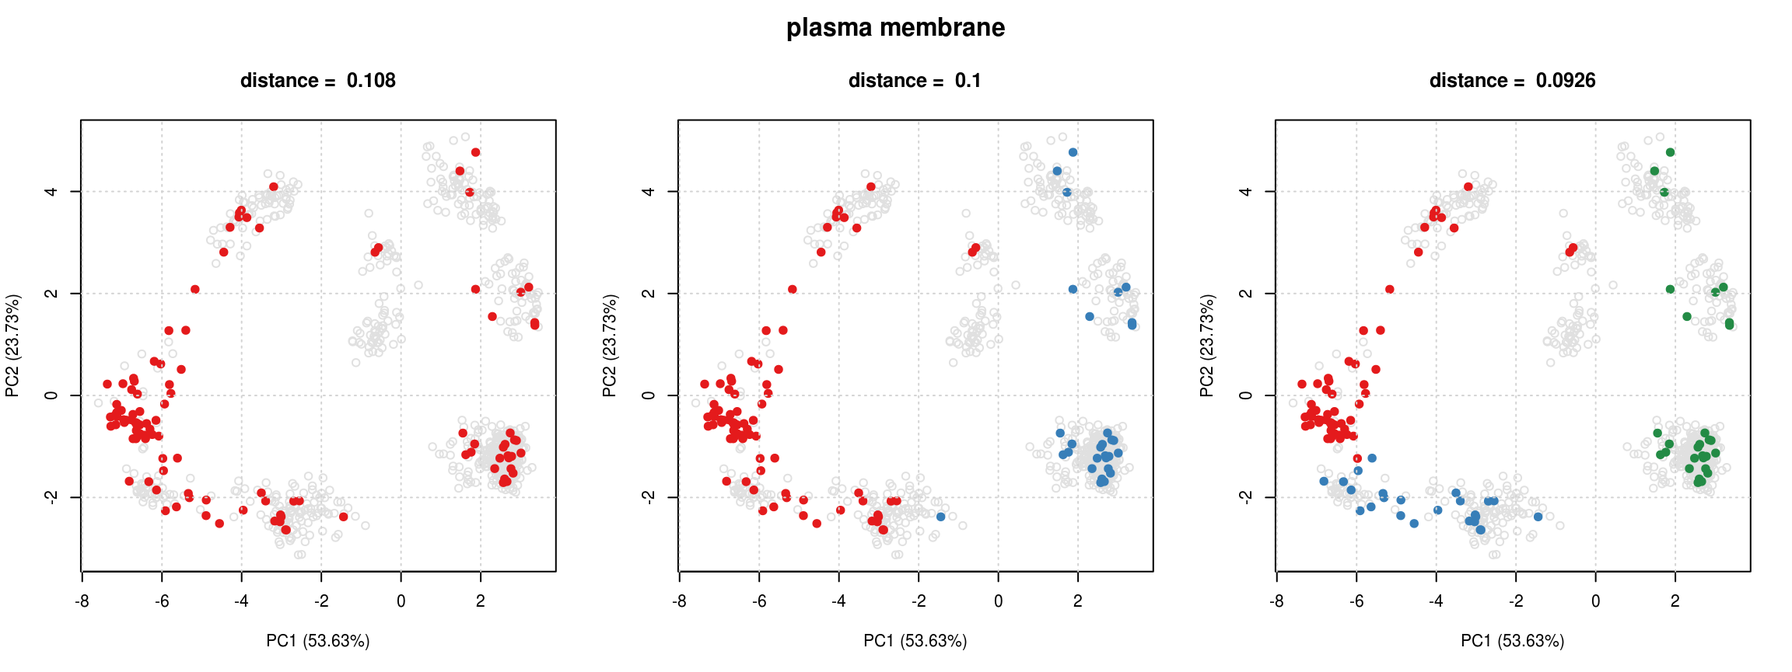
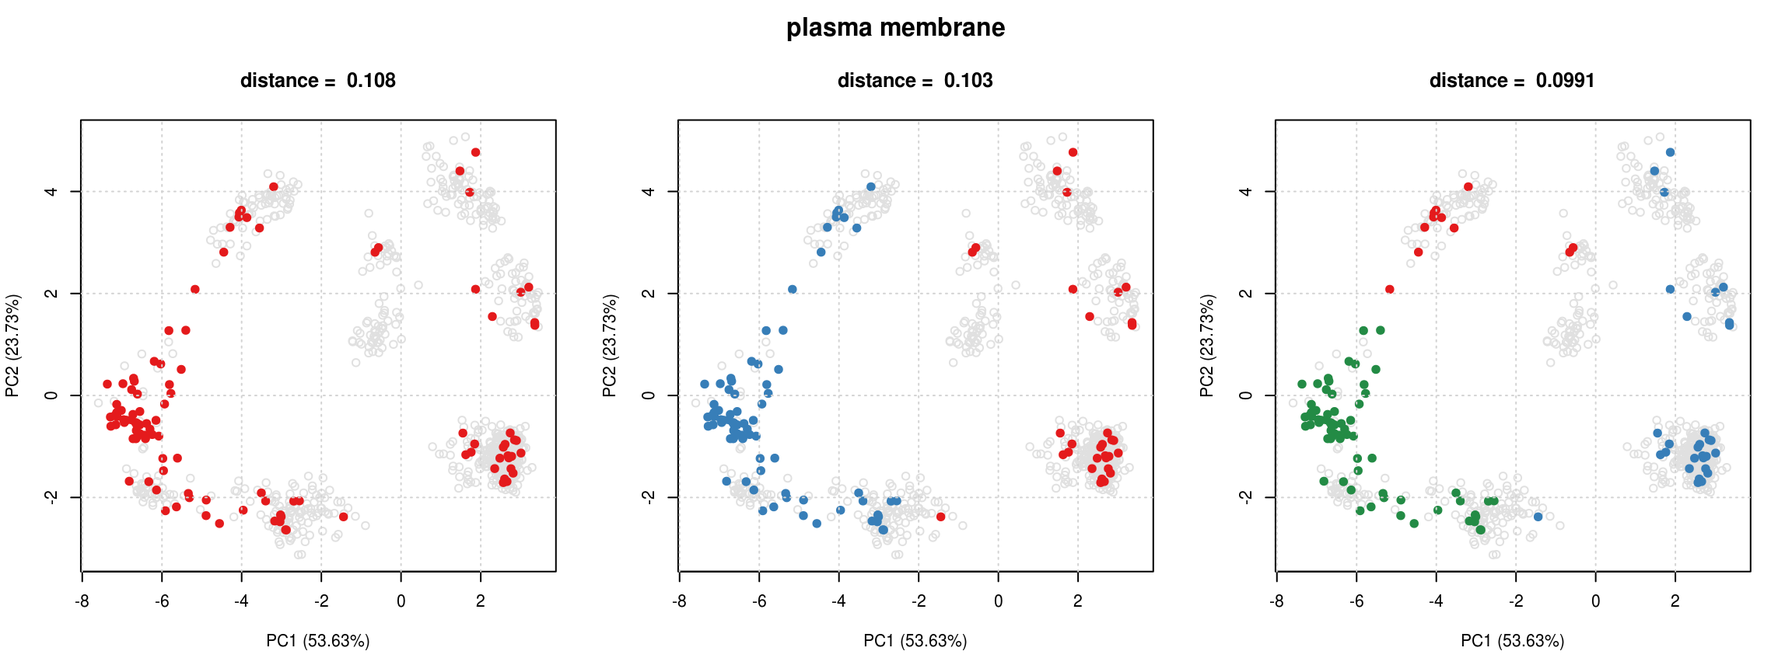
Deploy lgatto/pRoloc to github.com/lgatto/pRoloc.git:gh-pages

diff --git a/reference/plsdaClassification.html b/reference/plsdaClassification.html
@@ -194,8 +194,8 @@ from package <code>caret</code>.</p></td>
 #&gt; 
 #&gt; function (x, ...) 
 #&gt; standardGeneric("params")
-#&gt; &lt;bytecode: 0x80e6d30&gt;
-#&gt; &lt;environment: 0x80e0a90&gt;
+#&gt; &lt;bytecode: 0x7a04790&gt;
+#&gt; &lt;environment: 0x79fe100&gt;
 #&gt; Methods may be defined for arguments: x
 #&gt; Use  showMethods("params")  for currently available ones.</div><div class='input'><span class='fu'><a href='https://www.rdocumentation.org/packages/graphics/topics/plot'>plot</a></span>(<span class='no'>params</span>)</div><div class='output co'>#&gt; <span class='error'>Error in (function (classes, fdef, mtable) {    methods &lt;- .findInheritedMethods(classes, fdef, mtable)    if (length(methods) == 1L)         return(methods[[1L]])    else if (length(methods) == 0L) {        cnames &lt;- paste0("\"", vapply(classes, as.character,             ""), "\"", collapse = ", ")        stop(gettextf("unable to find an inherited method for function %s for signature %s",             sQuote(fdef@generic), sQuote(cnames)), domain = NA)    }    else stop("Internal error in finding inherited methods; didn't return a unique method",         domain = NA)})(list("numeric"), new("standardGeneric", .Data = function (x,     ...) standardGeneric("params"), generic = structure("params", package = "S4Vectors"),     package = "S4Vectors", group = list(), valueClass = character(0),     signature = "x", default = NULL, skeleton = (function (x,         ...)     stop("invalid call in method dispatch to 'params' (no default method)",         domain = NA))(x, ...)), &lt;environment&gt;): unable to find an inherited method for function ‘params’ for signature ‘"numeric"’</span></div><div class='input'><span class='fu'><a href='GenRegRes-class.html'>f1Count</a></span>(<span class='no'>params</span>)</div><div class='output co'>#&gt; <span class='error'>Error in (function (classes, fdef, mtable) {    methods &lt;- .findInheritedMethods(classes, fdef, mtable)    if (length(methods) == 1L)         return(methods[[1L]])    else if (length(methods) == 0L) {        cnames &lt;- paste0("\"", vapply(classes, as.character,             ""), "\"", collapse = ", ")        stop(gettextf("unable to find an inherited method for function %s for signature %s",             sQuote(fdef@generic), sQuote(cnames)), domain = NA)    }    else stop("Internal error in finding inherited methods; didn't return a unique method",         domain = NA)})(list(structure("standardGeneric", package = "methods")), new("standardGeneric",     .Data = function (object, ...)     standardGeneric("f1Count"), generic = structure("f1Count", package = "pRoloc"),     package = "pRoloc", group = list(), valueClass = character(0),     signature = "object", default = NULL, skeleton = (function (object,         ...)     stop("invalid call in method dispatch to 'f1Count' (no default method)",         domain = NA))(object, ...)), &lt;environment&gt;): unable to find an inherited method for function ‘f1Count’ for signature ‘"standardGeneric"’</span></div><div class='input'><span class='fu'><a href='GenRegRes-class.html'>levelPlot</a></span>(<span class='no'>params</span>)</div><div class='output co'>#&gt; <span class='error'>Error in (function (classes, fdef, mtable) {    methods &lt;- .findInheritedMethods(classes, fdef, mtable)    if (length(methods) == 1L)         return(methods[[1L]])    else if (length(methods) == 0L) {        cnames &lt;- paste0("\"", vapply(classes, as.character,             ""), "\"", collapse = ", ")        stop(gettextf("unable to find an inherited method for function %s for signature %s",             sQuote(fdef@generic), sQuote(cnames)), domain = NA)    }    else stop("Internal error in finding inherited methods; didn't return a unique method",         domain = NA)})(list(structure("standardGeneric", package = "methods")), new("standardGeneric",     .Data = function (object, ...)     standardGeneric("levelPlot"), generic = structure("levelPlot", package = "pRoloc"),     package = "pRoloc", group = list(), valueClass = character(0),     signature = "object", default = NULL, skeleton = (function (object,         ...)     stop("invalid call in method dispatch to 'levelPlot' (no default method)",         domain = NA))(object, ...)), &lt;environment&gt;): unable to find an inherited method for function ‘levelPlot’ for signature ‘"standardGeneric"’</span></div><div class='input'><span class='fu'><a href='GenRegRes-class.html'>getParams</a></span>(<span class='no'>params</span>)</div><div class='output co'>#&gt; <span class='error'>Error in (function (classes, fdef, mtable) {    methods &lt;- .findInheritedMethods(classes, fdef, mtable)    if (length(methods) == 1L)         return(methods[[1L]])    else if (length(methods) == 0L) {        cnames &lt;- paste0("\"", vapply(classes, as.character,             ""), "\"", collapse = ", ")        stop(gettextf("unable to find an inherited method for function %s for signature %s",             sQuote(fdef@generic), sQuote(cnames)), domain = NA)    }    else stop("Internal error in finding inherited methods; didn't return a unique method",         domain = NA)})(list(structure("standardGeneric", package = "methods")), new("standardGeneric",     .Data = function (object, ...)     standardGeneric("getParams"), generic = structure("getParams", package = "pRoloc"),     package = "pRoloc", group = list(), valueClass = character(0),     signature = "object", default = NULL, skeleton = (function (object,         ...)     stop("invalid call in method dispatch to 'getParams' (no default method)",         domain = NA))(object, ...)), &lt;environment&gt;): unable to find an inherited method for function ‘getParams’ for signature ‘"standardGeneric"’</span></div><div class='input'><span class='no'>res</span> <span class='kw'>&lt;-</span> <span class='fu'>plsdaClassification</span>(<span class='no'>dunkley2006</span>, <span class='no'>params</span>)</div><div class='output co'>#&gt; <span class='error'>Error in (function (classes, fdef, mtable) {    methods &lt;- .findInheritedMethods(classes, fdef, mtable)    if (length(methods) == 1L)         return(methods[[1L]])    else if (length(methods) == 0L) {        cnames &lt;- paste0("\"", vapply(classes, as.character,             ""), "\"", collapse = ", ")        stop(gettextf("unable to find an inherited method for function %s for signature %s",             sQuote(fdef@generic), sQuote(cnames)), domain = NA)    }    else stop("Internal error in finding inherited methods; didn't return a unique method",         domain = NA)})(list(structure("standardGeneric", package = "methods")), new("standardGeneric",     .Data = function (object, ...)     standardGeneric("getParams"), generic = structure("getParams", package = "pRoloc"),     package = "pRoloc", group = list(), valueClass = character(0),     signature = "object", default = NULL, skeleton = (function (object,         ...)     stop("invalid call in method dispatch to 'getParams' (no default method)",         domain = NA))(object, ...)), &lt;environment&gt;): unable to find an inherited method for function ‘getParams’ for signature ‘"standardGeneric"’</span></div><div class='input'><span class='fu'><a href='getPredictions.html'>getPredictions</a></span>(<span class='no'>res</span>, <span class='kw'>fcol</span> <span class='kw'>=</span> <span class='st'>"plsda"</span>)</div><div class='output co'>#&gt; <span class='error'>Error in fData(object): object 'res' not found</span></div><div class='input'><span class='fu'><a href='getPredictions.html'>getPredictions</a></span>(<span class='no'>res</span>, <span class='kw'>fcol</span> <span class='kw'>=</span> <span class='st'>"plsda"</span>, <span class='kw'>t</span> <span class='kw'>=</span> <span class='fl'>0.9</span>)</div><div class='output co'>#&gt; <span class='error'>Error in fData(object): object 'res' not found</span></div><div class='input'><span class='fu'><a href='plot2D.html'>plot2D</a></span>(<span class='no'>res</span>, <span class='kw'>fcol</span> <span class='kw'>=</span> <span class='st'>"plsda"</span>)</div><div class='output co'>#&gt; <span class='error'>Error in plot2D(res, fcol = "plsda"): object 'res' not found</span></div></pre>
   </div>

diff --git a/articles/v01-pRoloc-tutorial.html b/articles/v01-pRoloc-tutorial.html
@@ -306,7 +306,7 @@ document.addEventListener("DOMContentLoaded", function() {
 ## experimentData: use 'experimentData(object)'
 ## Annotation:  
 ## - - - Processing information - - -
-## Quantitation data loaded: Fri Feb 22 14:15:17 2019  using readMSnSet. 
+## Quantitation data loaded: Fri Feb 22 14:30:55 2019  using readMSnSet. 
 ##  MSnbase version: 2.9.2</code></pre>
 </div>
 </div>
@@ -466,8 +466,8 @@ document.addEventListener("DOMContentLoaded", function() {
 <pre><code>## - - - Processing information - - -
 ## Data loaded: Wed May 11 18:54:39 2011 
 ## Updated from version 0.3.0 to 0.3.1 [Fri Jul  8 20:23:25 2016] 
-## iTRAQ4 quantification by trapezoidation: Fri Feb 22 14:15:19 2019 
-## Normalised (sum): Fri Feb 22 14:15:19 2019 
+## iTRAQ4 quantification by trapezoidation: Fri Feb 22 14:30:57 2019 
+## Normalised (sum): Fri Feb 22 14:30:57 2019 
 ##  MSnbase version: 1.1.22</code></pre>
 <div class="sourceCode" id="cb46"><pre class="sourceCode r"><code class="sourceCode r"><a class="sourceLine" id="cb46-1" data-line-number="1"><span class="kw"><a href="https://www.rdocumentation.org/packages/utils/topics/head">head</a></span>(<span class="kw">exprs</span>(itraqnorm), <span class="dt">n =</span> <span class="dv">3</span>)</a></code></pre></div>
 <pre><code>##     iTRAQ4.114 iTRAQ4.115 iTRAQ4.116 iTRAQ4.117
@@ -771,7 +771,7 @@ Assessing parameter optimisation. On the left, we see the respective distributio
 <a class="sourceLine" id="cb87-4" data-line-number="4"><span class="kw"><a href="https://www.rdocumentation.org/packages/MSnbase/topics/pSet-class">processingData</a></span>(svmres)</a></code></pre></div>
 <pre><code>## - - - Processing information - - -
 ## Added markers from  'mrk' marker vector. Thu Jul 16 22:53:44 2015 
-## Performed svm prediction (sigma=0.1 cost=0.5) Fri Feb 22 14:15:26 2019 
+## Performed svm prediction (sigma=0.1 cost=0.5) Fri Feb 22 14:31:04 2019 
 ##  MSnbase version: 1.17.12</code></pre>
 <div class="sourceCode" id="cb89"><pre class="sourceCode r"><code class="sourceCode r"><a class="sourceLine" id="cb89-1" data-line-number="1"><span class="kw"><a href="https://www.rdocumentation.org/packages/utils/topics/head">tail</a></span>(<span class="kw">fvarLabels</span>(svmres), <span class="dv">4</span>)</a></code></pre></div>
 <pre><code>## [1] "markers"    "markers.tl" "svm"        "svm.scores"</code></pre>
@@ -873,8 +873,8 @@ Organelle-specific SVM score distributions.
 ## Annotation:  
 ## - - - Processing information - - -
 ## Added markers from  'mrk' marker vector. Thu Jul 16 22:53:44 2015 
-## Performed svm prediction (sigma=0.1 cost=0.5) Fri Feb 22 14:15:26 2019 
-## Added svm predictions according to thresholds: ER = 0.84, Golgi = 0.63, mitochondrion = 0.75, PM = 0.76 Fri Feb 22 14:15:27 2019 
+## Performed svm prediction (sigma=0.1 cost=0.5) Fri Feb 22 14:31:04 2019 
+## Added svm predictions according to thresholds: ER = 0.84, Golgi = 0.63, mitochondrion = 0.75, PM = 0.76 Fri Feb 22 14:31:04 2019 
 ##  MSnbase version: 1.17.12</code></pre>
 <p>We can now visualise these results using the plotting functions presented in section @ref(sec:usml), as shown on figure @ref(fig:svmres). We clearly see that besides the organelle marker clusters that have been assigned high confidence members, many other proteins have substantially lower prediction scores.</p>
 <div class="sourceCode" id="cb103"><pre class="sourceCode r"><code class="sourceCode r"><a class="sourceLine" id="cb103-1" data-line-number="1">ptsze &lt;-<span class="st"> </span><span class="kw"><a href="https://www.rdocumentation.org/packages/base/topics/Log">exp</a></span>(<span class="kw">fData</span>(svmres)<span class="op">$</span>svm.scores) <span class="op">-</span><span class="st"> </span><span class="dv">1</span></a>

diff --git a/reference/getPredictions.html b/reference/getPredictions.html
@@ -225,8 +225,8 @@ thresholds.</p></div>
 #&gt; Loaded on Thu Jul 16 22:53:08 2015. 
 #&gt; Normalised to sum of intensities. 
 #&gt; Added markers from  'mrk' marker vector. Thu Jul 16 22:53:08 2015 
-#&gt; Performed svm prediction (cost=0.5 sigma=0.1) Fri Feb 22 14:13:46 2019 
-#&gt; Added svm predictions according to global threshold = 0 Fri Feb 22 14:13:46 2019 
+#&gt; Performed svm prediction (cost=0.5 sigma=0.1) Fri Feb 22 14:29:30 2019 
+#&gt; Added svm predictions according to global threshold = 0 Fri Feb 22 14:29:30 2019 
 #&gt;  MSnbase version: 1.17.12 </div><div class='input'><span class='fu'>getPredictions</span>(<span class='no'>res</span>, <span class='kw'>fcol</span> <span class='kw'>=</span> <span class='st'>"svm"</span>, <span class='kw'>t</span> <span class='kw'>=</span> <span class='fl'>.9</span>) <span class='co'>## single threshold </span></div><div class='output co'>#&gt; ans
 #&gt;      ER lumen   ER membrane         Golgi Mitochondrion       Plastid 
 #&gt;            14            56            28            55            20 
@@ -250,8 +250,8 @@ thresholds.</p></div>
 #&gt; Loaded on Thu Jul 16 22:53:08 2015. 
 #&gt; Normalised to sum of intensities. 
 #&gt; Added markers from  'mrk' marker vector. Thu Jul 16 22:53:08 2015 
-#&gt; Performed svm prediction (cost=0.5 sigma=0.1) Fri Feb 22 14:13:46 2019 
-#&gt; Added svm predictions according to global threshold = 0.9 Fri Feb 22 14:13:46 2019 
+#&gt; Performed svm prediction (cost=0.5 sigma=0.1) Fri Feb 22 14:29:30 2019 
+#&gt; Added svm predictions according to global threshold = 0.9 Fri Feb 22 14:29:30 2019 
 #&gt;  MSnbase version: 1.17.12 </div><div class='input'><span class='co'>## 50% top predictions per class</span>
 <span class='no'>ts</span> <span class='kw'>&lt;-</span> <span class='fu'><a href='orgQuants.html'>orgQuants</a></span>(<span class='no'>res</span>, <span class='kw'>fcol</span> <span class='kw'>=</span> <span class='st'>"svm"</span>, <span class='kw'>t</span> <span class='kw'>=</span> <span class='fl'>.5</span>)</div><div class='output co'>#&gt;      ER lumen   ER membrane         Golgi Mitochondrion       Plastid 
 #&gt;     0.2995766     0.8368847     0.7805362     0.7484314     0.7746137 
@@ -279,8 +279,8 @@ thresholds.</p></div>
 #&gt; Loaded on Thu Jul 16 22:53:08 2015. 
 #&gt; Normalised to sum of intensities. 
 #&gt; Added markers from  'mrk' marker vector. Thu Jul 16 22:53:08 2015 
-#&gt; Performed svm prediction (cost=0.5 sigma=0.1) Fri Feb 22 14:13:46 2019 
-#&gt; Added svm predictions according to thresholds: ER lumen = 0.30, ER membrane = 0.84, Golgi = 0.78, Mitochondrion = 0.75, Plastid = 0.77, PM = 0.73, Ribosome = 0.54, TGN = 0.53, vacuole = 0.57 Fri Feb 22 14:13:46 2019 
+#&gt; Performed svm prediction (cost=0.5 sigma=0.1) Fri Feb 22 14:29:30 2019 
+#&gt; Added svm predictions according to thresholds: ER lumen = 0.30, ER membrane = 0.84, Golgi = 0.78, Mitochondrion = 0.75, Plastid = 0.77, PM = 0.73, Ribosome = 0.54, TGN = 0.53, vacuole = 0.57 Fri Feb 22 14:29:30 2019 
 #&gt;  MSnbase version: 1.17.12 </div></pre>
   </div>
   <div class="col-md-3 hidden-xs hidden-sm" id="sidebar">

diff --git a/reference/perTurboClassification.html b/reference/perTurboClassification.html
@@ -258,8 +258,8 @@ Default is <code>markers</code>.</p></td>
 #&gt; Loaded on Thu Jul 16 22:53:08 2015. 
 #&gt; Normalised to sum of intensities. 
 #&gt; Added markers from  'mrk' marker vector. Thu Jul 16 22:53:08 2015 
-#&gt; Performed perTurbo prediction (sigma=0.1 pRegul=4) Fri Feb 22 14:14:37 2019 
-#&gt; Added perTurbo predictions according to global threshold = 0 Fri Feb 22 14:14:37 2019 
+#&gt; Performed perTurbo prediction (sigma=0.1 pRegul=4) Fri Feb 22 14:30:18 2019 
+#&gt; Added perTurbo predictions according to global threshold = 0 Fri Feb 22 14:30:18 2019 
 #&gt;  MSnbase version: 1.17.12 </div><div class='input'><span class='fu'><a href='getPredictions.html'>getPredictions</a></span>(<span class='no'>res</span>, <span class='kw'>fcol</span> <span class='kw'>=</span> <span class='st'>"perTurbo"</span>, <span class='kw'>t</span> <span class='kw'>=</span> <span class='fl'>0.75</span>)</div><div class='output co'>#&gt; ans
 #&gt;      ER lumen   ER membrane         Golgi Mitochondrion       Plastid 
 #&gt;            14            45            28            55            20 
@@ -283,8 +283,8 @@ Default is <code>markers</code>.</p></td>
 #&gt; Loaded on Thu Jul 16 22:53:08 2015. 
 #&gt; Normalised to sum of intensities. 
 #&gt; Added markers from  'mrk' marker vector. Thu Jul 16 22:53:08 2015 
-#&gt; Performed perTurbo prediction (sigma=0.1 pRegul=4) Fri Feb 22 14:14:37 2019 
-#&gt; Added perTurbo predictions according to global threshold = 0.75 Fri Feb 22 14:14:37 2019 
+#&gt; Performed perTurbo prediction (sigma=0.1 pRegul=4) Fri Feb 22 14:30:18 2019 
+#&gt; Added perTurbo predictions according to global threshold = 0.75 Fri Feb 22 14:30:18 2019 
 #&gt;  MSnbase version: 1.17.12 </div><div class='input'><span class='fu'><a href='plot2D.html'>plot2D</a></span>(<span class='no'>res</span>, <span class='kw'>fcol</span> <span class='kw'>=</span> <span class='st'>"perTurbo"</span>)</div><div class='img'><img src='perTurboClassification-3.png' alt='' width='700' height='433' /></div></pre>
   </div>
   <div class="col-md-3 hidden-xs hidden-sm" id="sidebar">

diff --git a/reference/nbClassification.html b/reference/nbClassification.html
@@ -225,8 +225,8 @@ Default is <code>markers</code>.</p></td>
 #&gt; Loaded on Thu Jul 16 22:53:08 2015. 
 #&gt; Normalised to sum of intensities. 
 #&gt; Added markers from  'mrk' marker vector. Thu Jul 16 22:53:08 2015 
-#&gt; Performed naiveBayes prediction (laplace=5) Fri Feb 22 14:14:17 2019 
-#&gt; Added naiveBayes predictions according to global threshold = 0 Fri Feb 22 14:14:17 2019 
+#&gt; Performed naiveBayes prediction (laplace=5) Fri Feb 22 14:29:59 2019 
+#&gt; Added naiveBayes predictions according to global threshold = 0 Fri Feb 22 14:29:59 2019 
 #&gt;  MSnbase version: 1.17.12 </div><div class='input'><span class='fu'><a href='getPredictions.html'>getPredictions</a></span>(<span class='no'>res</span>, <span class='kw'>fcol</span> <span class='kw'>=</span> <span class='st'>"naiveBayes"</span>, <span class='kw'>t</span> <span class='kw'>=</span> <span class='fl'>1</span>)</div><div class='output co'>#&gt; ans
 #&gt;      ER lumen   ER membrane         Golgi Mitochondrion       Plastid 
 #&gt;            14            45            69            61            43 
@@ -250,8 +250,8 @@ Default is <code>markers</code>.</p></td>
 #&gt; Loaded on Thu Jul 16 22:53:08 2015. 
 #&gt; Normalised to sum of intensities. 
 #&gt; Added markers from  'mrk' marker vector. Thu Jul 16 22:53:08 2015 
-#&gt; Performed naiveBayes prediction (laplace=5) Fri Feb 22 14:14:17 2019 
-#&gt; Added naiveBayes predictions according to global threshold = 1 Fri Feb 22 14:14:17 2019 
+#&gt; Performed naiveBayes prediction (laplace=5) Fri Feb 22 14:29:59 2019 
+#&gt; Added naiveBayes predictions according to global threshold = 1 Fri Feb 22 14:29:59 2019 
 #&gt;  MSnbase version: 1.17.12 </div><div class='input'><span class='fu'><a href='plot2D.html'>plot2D</a></span>(<span class='no'>res</span>, <span class='kw'>fcol</span> <span class='kw'>=</span> <span class='st'>"naiveBayes"</span>)</div><div class='img'><img src='nbClassification-3.png' alt='' width='700' height='433' /></div></pre>
   </div>
   <div class="col-md-3 hidden-xs hidden-sm" id="sidebar">

diff --git a/reference/nnetClassification.html b/reference/nnetClassification.html
@@ -246,8 +246,8 @@ package <code>nnet</code>.</p></td>
 #&gt; Loaded on Thu Jul 16 22:53:08 2015. 
 #&gt; Normalised to sum of intensities. 
 #&gt; Added markers from  'mrk' marker vector. Thu Jul 16 22:53:08 2015 
-#&gt; Performed nnet prediction (decay=1e-05 size=10) Fri Feb 22 14:14:24 2019 
-#&gt; Added nnet predictions according to global threshold = 0 Fri Feb 22 14:14:24 2019 
+#&gt; Performed nnet prediction (decay=1e-05 size=10) Fri Feb 22 14:30:06 2019 
+#&gt; Added nnet predictions according to global threshold = 0 Fri Feb 22 14:30:06 2019 
 #&gt;  MSnbase version: 1.17.12 </div><div class='input'><span class='fu'><a href='getPredictions.html'>getPredictions</a></span>(<span class='no'>res</span>, <span class='kw'>fcol</span> <span class='kw'>=</span> <span class='st'>"nnet"</span>, <span class='kw'>t</span> <span class='kw'>=</span> <span class='fl'>0.75</span>)</div><div class='output co'>#&gt; ans
 #&gt;      ER lumen   ER membrane         Golgi Mitochondrion       Plastid 
 #&gt;            27           168            94           107            50 
@@ -271,8 +271,8 @@ package <code>nnet</code>.</p></td>
 #&gt; Loaded on Thu Jul 16 22:53:08 2015. 
 #&gt; Normalised to sum of intensities. 
 #&gt; Added markers from  'mrk' marker vector. Thu Jul 16 22:53:08 2015 
-#&gt; Performed nnet prediction (decay=1e-05 size=10) Fri Feb 22 14:14:24 2019 
-#&gt; Added nnet predictions according to global threshold = 0.75 Fri Feb 22 14:14:24 2019 
+#&gt; Performed nnet prediction (decay=1e-05 size=10) Fri Feb 22 14:30:06 2019 
+#&gt; Added nnet predictions according to global threshold = 0.75 Fri Feb 22 14:30:06 2019 
 #&gt;  MSnbase version: 1.17.12 </div><div class='input'><span class='fu'><a href='plot2D.html'>plot2D</a></span>(<span class='no'>res</span>, <span class='kw'>fcol</span> <span class='kw'>=</span> <span class='st'>"nnet"</span>)</div><div class='img'><img src='nnetClassification-3.png' alt='' width='700' height='433' /></div></pre>
   </div>
   <div class="col-md-3 hidden-xs hidden-sm" id="sidebar">

diff --git a/reference/rfClassification.html b/reference/rfClassification.html
@@ -225,8 +225,8 @@ Default is <code>markers</code>.</p></td>
 #&gt; Loaded on Thu Jul 16 22:53:08 2015. 
 #&gt; Normalised to sum of intensities. 
 #&gt; Added markers from  'mrk' marker vector. Thu Jul 16 22:53:08 2015 
-#&gt; Performed random forest prediction (mtry=5) Fri Feb 22 14:14:54 2019 
-#&gt; Added rf predictions according to global threshold = 0 Fri Feb 22 14:14:54 2019 
+#&gt; Performed random forest prediction (mtry=5) Fri Feb 22 14:30:34 2019 
+#&gt; Added rf predictions according to global threshold = 0 Fri Feb 22 14:30:34 2019 
 #&gt;  MSnbase version: 1.17.12 </div><div class='input'><span class='fu'><a href='getPredictions.html'>getPredictions</a></span>(<span class='no'>res</span>, <span class='kw'>fcol</span> <span class='kw'>=</span> <span class='st'>"rf"</span>, <span class='kw'>t</span> <span class='kw'>=</span> <span class='fl'>0.75</span>)</div><div class='output co'>#&gt; ans
 #&gt;      ER lumen   ER membrane         Golgi Mitochondrion       Plastid 
 #&gt;            14           150            78            92            47 
@@ -250,8 +250,8 @@ Default is <code>markers</code>.</p></td>
 #&gt; Loaded on Thu Jul 16 22:53:08 2015. 
 #&gt; Normalised to sum of intensities. 
 #&gt; Added markers from  'mrk' marker vector. Thu Jul 16 22:53:08 2015 
-#&gt; Performed random forest prediction (mtry=5) Fri Feb 22 14:14:54 2019 
-#&gt; Added rf predictions according to global threshold = 0.75 Fri Feb 22 14:14:54 2019 
+#&gt; Performed random forest prediction (mtry=5) Fri Feb 22 14:30:34 2019 
+#&gt; Added rf predictions according to global threshold = 0.75 Fri Feb 22 14:30:34 2019 
 #&gt;  MSnbase version: 1.17.12 </div><div class='input'><span class='fu'><a href='plot2D.html'>plot2D</a></span>(<span class='no'>res</span>, <span class='kw'>fcol</span> <span class='kw'>=</span> <span class='st'>"rf"</span>)</div><div class='img'><img src='rfClassification-3.png' alt='' width='700' height='433' /></div></pre>
   </div>
   <div class="col-md-3 hidden-xs hidden-sm" id="sidebar">

diff --git a/reference/svmClassification.html b/reference/svmClassification.html
@@ -231,8 +231,8 @@ package <code>e1071</code>.</p></td>
 #&gt; Loaded on Thu Jul 16 22:53:08 2015. 
 #&gt; Normalised to sum of intensities. 
 #&gt; Added markers from  'mrk' marker vector. Thu Jul 16 22:53:08 2015 
-#&gt; Performed svm prediction (sigma=0.1 cost=1) Fri Feb 22 14:15:01 2019 
-#&gt; Added svm predictions according to global threshold = 0 Fri Feb 22 14:15:01 2019 
+#&gt; Performed svm prediction (sigma=0.1 cost=1) Fri Feb 22 14:30:40 2019 
+#&gt; Added svm predictions according to global threshold = 0 Fri Feb 22 14:30:40 2019 
 #&gt;  MSnbase version: 1.17.12 </div><div class='input'><span class='fu'><a href='getPredictions.html'>getPredictions</a></span>(<span class='no'>res</span>, <span class='kw'>fcol</span> <span class='kw'>=</span> <span class='st'>"svm"</span>, <span class='kw'>t</span> <span class='kw'>=</span> <span class='fl'>0.75</span>)</div><div class='output co'>#&gt; ans
 #&gt;      ER lumen   ER membrane         Golgi Mitochondrion       Plastid 
 #&gt;            14           145            70            93            42 
@@ -256,8 +256,8 @@ package <code>e1071</code>.</p></td>
 #&gt; Loaded on Thu Jul 16 22:53:08 2015. 
 #&gt; Normalised to sum of intensities. 
 #&gt; Added markers from  'mrk' marker vector. Thu Jul 16 22:53:08 2015 
-#&gt; Performed svm prediction (sigma=0.1 cost=1) Fri Feb 22 14:15:01 2019 
-#&gt; Added svm predictions according to global threshold = 0.75 Fri Feb 22 14:15:01 2019 
+#&gt; Performed svm prediction (sigma=0.1 cost=1) Fri Feb 22 14:30:40 2019 
+#&gt; Added svm predictions according to global threshold = 0.75 Fri Feb 22 14:30:40 2019 
 #&gt;  MSnbase version: 1.17.12 </div><div class='input'><span class='fu'><a href='plot2D.html'>plot2D</a></span>(<span class='no'>res</span>, <span class='kw'>fcol</span> <span class='kw'>=</span> <span class='st'>"svm"</span>)</div><div class='img'><img src='svmClassification-3.png' alt='' width='700' height='433' /></div></pre>
   </div>
   <div class="col-md-3 hidden-xs hidden-sm" id="sidebar">

diff --git a/reference/ksvmClassification.html b/reference/ksvmClassification.html
@@ -227,8 +227,8 @@ package <code>kernlab</code>.</p></td>
 #&gt; Loaded on Thu Jul 16 22:53:08 2015. 
 #&gt; Normalised to sum of intensities. 
 #&gt; Added markers from  'mrk' marker vector. Thu Jul 16 22:53:08 2015 
-#&gt; Performed ksvm prediction (cost=16) Fri Feb 22 14:14:10 2019 
-#&gt; Added ksvm predictions according to global threshold = 0 Fri Feb 22 14:14:10 2019 
+#&gt; Performed ksvm prediction (cost=16) Fri Feb 22 14:29:53 2019 
+#&gt; Added ksvm predictions according to global threshold = 0 Fri Feb 22 14:29:53 2019 
 #&gt;  MSnbase version: 1.17.12 </div><div class='input'><span class='fu'><a href='getPredictions.html'>getPredictions</a></span>(<span class='no'>res</span>, <span class='kw'>fcol</span> <span class='kw'>=</span> <span class='st'>"ksvm"</span>, <span class='kw'>t</span> <span class='kw'>=</span> <span class='fl'>0.75</span>)</div><div class='output co'>#&gt; ans
 #&gt;      ER lumen   ER membrane         Golgi Mitochondrion       Plastid 
 #&gt;            14           154            65            55            20 
@@ -252,8 +252,8 @@ package <code>kernlab</code>.</p></td>
 #&gt; Loaded on Thu Jul 16 22:53:08 2015. 
 #&gt; Normalised to sum of intensities. 
 #&gt; Added markers from  'mrk' marker vector. Thu Jul 16 22:53:08 2015 
-#&gt; Performed ksvm prediction (cost=16) Fri Feb 22 14:14:10 2019 
-#&gt; Added ksvm predictions according to global threshold = 0.75 Fri Feb 22 14:14:10 2019 
+#&gt; Performed ksvm prediction (cost=16) Fri Feb 22 14:29:53 2019 
+#&gt; Added ksvm predictions according to global threshold = 0.75 Fri Feb 22 14:29:53 2019 
 #&gt;  MSnbase version: 1.17.12 </div><div class='input'><span class='fu'><a href='plot2D.html'>plot2D</a></span>(<span class='no'>res</span>, <span class='kw'>fcol</span> <span class='kw'>=</span> <span class='st'>"ksvm"</span>)</div><div class='img'><img src='ksvmClassification-3.png' alt='' width='700' height='433' /></div></pre>
   </div>
   <div class="col-md-3 hidden-xs hidden-sm" id="sidebar">

diff --git a/reference/knnClassification.html b/reference/knnClassification.html
@@ -225,8 +225,8 @@ package <code>class</code>.</p></td>
 #&gt; Loaded on Thu Jul 16 22:53:08 2015. 
 #&gt; Normalised to sum of intensities. 
 #&gt; Added markers from  'mrk' marker vector. Thu Jul 16 22:53:08 2015 
-#&gt; Performed knn prediction (k=3) Fri Feb 22 14:13:51 2019 
-#&gt; Added knn predictions according to global threshold = 0 Fri Feb 22 14:13:51 2019 
+#&gt; Performed knn prediction (k=3) Fri Feb 22 14:29:35 2019 
+#&gt; Added knn predictions according to global threshold = 0 Fri Feb 22 14:29:35 2019 
 #&gt;  MSnbase version: 1.17.12 </div><div class='input'><span class='fu'><a href='getPredictions.html'>getPredictions</a></span>(<span class='no'>res</span>, <span class='kw'>fcol</span> <span class='kw'>=</span> <span class='st'>"knn"</span>, <span class='kw'>t</span> <span class='kw'>=</span> <span class='fl'>0.75</span>)</div><div class='output co'>#&gt; ans
 #&gt;      ER lumen   ER membrane         Golgi Mitochondrion       Plastid 
 #&gt;            15           173            83           103            49 
@@ -250,8 +250,8 @@ package <code>class</code>.</p></td>
 #&gt; Loaded on Thu Jul 16 22:53:08 2015. 
 #&gt; Normalised to sum of intensities. 
 #&gt; Added markers from  'mrk' marker vector. Thu Jul 16 22:53:08 2015 
-#&gt; Performed knn prediction (k=3) Fri Feb 22 14:13:51 2019 
-#&gt; Added knn predictions according to global threshold = 0.75 Fri Feb 22 14:13:51 2019 
+#&gt; Performed knn prediction (k=3) Fri Feb 22 14:29:35 2019 
+#&gt; Added knn predictions according to global threshold = 0.75 Fri Feb 22 14:29:35 2019 
 #&gt;  MSnbase version: 1.17.12 </div><div class='input'><span class='fu'><a href='plot2D.html'>plot2D</a></span>(<span class='no'>res</span>, <span class='kw'>fcol</span> <span class='kw'>=</span> <span class='st'>"knn"</span>)</div><div class='img'><img src='knnClassification-3.png' alt='' width='700' height='433' /></div></pre>
   </div>
   <div class="col-md-3 hidden-xs hidden-sm" id="sidebar">

diff --git a/articles/v05-pRoloc-transfer-learning.html b/articles/v05-pRoloc-transfer-learning.html
@@ -167,7 +167,7 @@ document.addEventListener("DOMContentLoaded", function() {
 ##  Using the 'ENSEMBL_MART_ENSEMBL' BioMart database
 ##  Using the 'hsapiens_gene_ensembl' dataset
 ##  Using 'uniprotswissprot' as filter
-##  Created on Fri Feb 22 14:18:57 2019</code></pre>
+##  Created on Fri Feb 22 14:34:20 2019</code></pre>
 <p>The <em>setAnnotationParams</em> function automatically sets the annotation parameters globally so that the <code>ap</code> object does not need to be explicitly set later on. The default parameters can be retrieved with <em>getAnnotationParams</em>.</p>
 </div>
 <div id="sec:auxgo" class="section level3">
@@ -193,7 +193,7 @@ document.addEventListener("DOMContentLoaded", function() {
 ## experimentData: use 'experimentData(object)'
 ## Annotation:  
 ## - - - Processing information - - -
-## Constructed GO set using cellular_component namespace [Fri Feb 22 14:19:13 2019] 
+## Constructed GO set using cellular_component namespace [Fri Feb 22 14:34:31 2019] 
 ##  MSnbase version: 2.9.2</code></pre>
 <div class="sourceCode" id="cb13"><pre class="sourceCode r"><code class="sourceCode r"><a class="sourceLine" id="cb13-1" data-line-number="1"><span class="kw">exprs</span>(andygoset)[<span class="dv">1</span><span class="op">:</span><span class="dv">7</span>, <span class="dv">1</span><span class="op">:</span><span class="dv">4</span>]</a></code></pre></div>
 <pre><code>##        GO:0016020 GO:0016021 GO:0005783 GO:0005730

diff --git a/articles/v04-pRoloc-goannotations.html b/articles/v04-pRoloc-goannotations.html
@@ -210,13 +210,13 @@ document.addEventListener("DOMContentLoaded", function() {
 ##  nrow =  111 
 ## k's tested: 1 2 3 
 ##   Size:  111 
-##   Size:  80, 31 
-##   Size:  57, 24, 30 
+##   Size:  33, 78 
+##   Size:  11, 31, 69 
 ## Clusters info:
 ##       ks.mean    mean ks.norm     norm
 ## k = 1       1  0.5167       1  0.10751
-## k = 2       2  0.3636       2  0.10021
-## k = 3       3 *0.3017       3 *0.09262</code></pre>
+## k = 2       2  0.3728       2  0.10277
+## k = 3       3 *0.2938       3 *0.09907</code></pre>
 <p>We can use the <code>plotClustDist</code> and <code>plotComponents</code> to visualise these results.</p>
 <div class="sourceCode" id="cb14"><pre class="sourceCode r"><code class="sourceCode r"><a class="sourceLine" id="cb14-1" data-line-number="1">## Plot normalised distances</a>
 <a class="sourceLine" id="cb14-2" data-line-number="2"><span class="kw"><a href="https://www.rdocumentation.org/packages/graphics/topics/plot">plot</a></span>(dd, <span class="dt">p =</span> <span class="dv">1</span><span class="op">/</span><span class="dv">3</span>)</a></code></pre></div>
